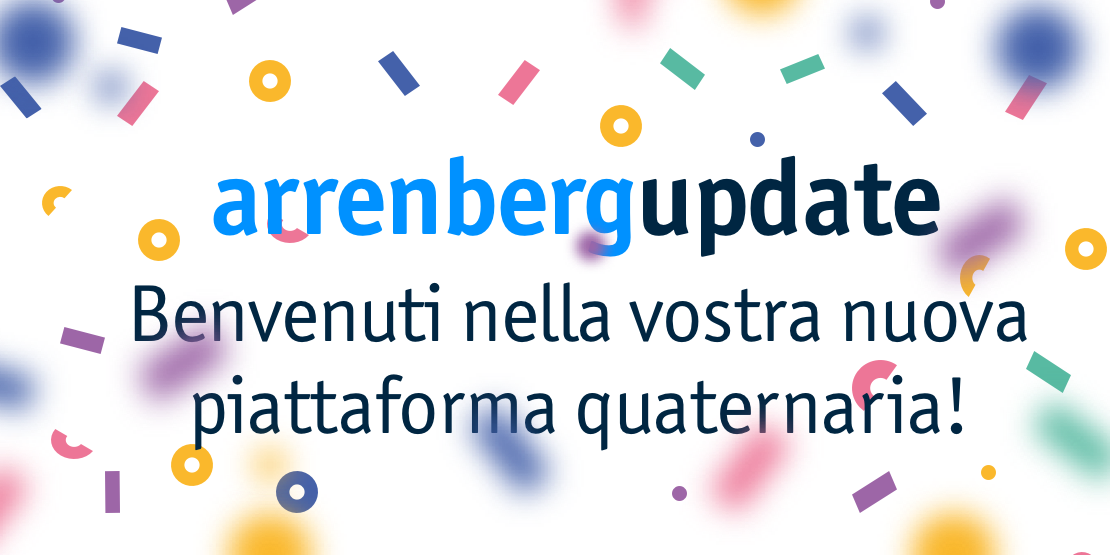
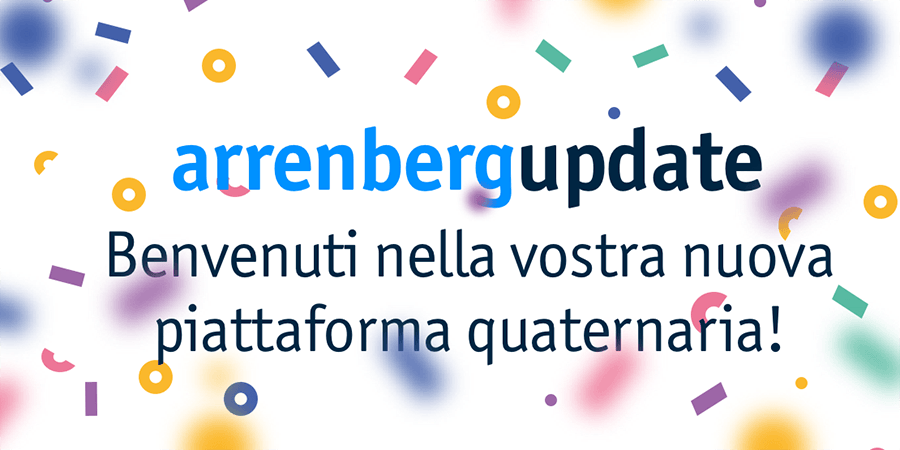
Reduced image size

diff --git a/style.css b/style.css
@@ -1032,103 +1032,6 @@ button.toggle {
   fill: currentColor;
 }
 
-/* Opacity ----------------------------------- */
-
-.opacity-0 {
-  opacity: 0;
-}
-
-.opacity-5 {
-  opacity: 0.05;
-}
-
-.opacity-10 {
-  opacity: 0.1;
-}
-
-.opacity-15 {
-  opacity: 0.15;
-}
-
-.opacity-20 {
-  opacity: 0.2;
-}
-
-.opacity-25 {
-  opacity: 0.25;
-}
-
-.opacity-30 {
-  opacity: 0.3;
-}
-
-.opacity-35 {
-  opacity: 0.35;
-}
-
-.opacity-40 {
-  opacity: 0.4;
-}
-
-.opacity-45 {
-  opacity: 0.45;
-}
-
-.opacity-50 {
-  opacity: 0.5;
-}
-
-.opacity-55 {
-  opacity: 0.55;
-}
-
-.opacity-60 {
-  opacity: 0.6;
-}
-
-.opacity-65 {
-  opacity: 0.65;
-}
-
-.opacity-70 {
-  opacity: 0.7;
-}
-
-.opacity-75 {
-  opacity: 0.75;
-}
-
-.opacity-80 {
-  opacity: 0.8;
-}
-
-.opacity-85 {
-  opacity: 0.85;
-}
-
-.opacity-90 {
-  opacity: 0.9;
-}
-
-.blend-mode-exclusion {
-  mix-blend-mode: exclusion;
-}
-
-.blend-mode-hue {
-  mix-blend-mode: hue;
-}
-
-.blend-mode-saturation {
-  mix-blend-mode: saturation;
-}
-
-.blend-mode-color {
-  mix-blend-mode: color;
-}
-
-.blend-mode-luminosity {
-  mix-blend-mode: luminosity;
-}
 
 /* Image Classes ----------------------------- */
 
@@ -1142,57 +1045,11 @@ button.toggle {
   background-attachment: fixed;
 }
 
-@supports (-webkit-overflow-scrolling: touch) {
-  .bg-attachment-fixed {
-    background-attachment: scroll;
-  }
-}
-
-@media (prefers-reduced-motion: reduce) {
-  .bg-attachment-fixed {
-    background-attachment: scroll;
-  }
-}
-
 .wp-block-image.is-resized {
   margin-left: auto;
   margin-right: auto;
 }
 
-/* Search Form ------------------------------- */
-
-.search-form {
-  align-items: stretch;
-  display: flex;
-  flex-wrap: nowrap;
-  margin: 0 0 -0.8rem -0.8rem;
-}
-
-.search-form .search-field,
-.search-form .search-submit {
-  margin: 0 0 0.8rem 0.8rem;
-}
-
-.search-form label {
-  align-items: stretch;
-  display: flex;
-  font-size: inherit;
-  margin: 0;
-  width: 100%;
-}
-
-.search-form .search-field {
-  width: 100%;
-}
-
-.search-form .search-submit {
-  flex-shrink: 0;
-}
-
-.search-form .search-submit:focus,
-.search-form .search-submit:hover {
-  text-decoration: none;
-}
 
 /* -------------------------------------------------------------------------- */
 
